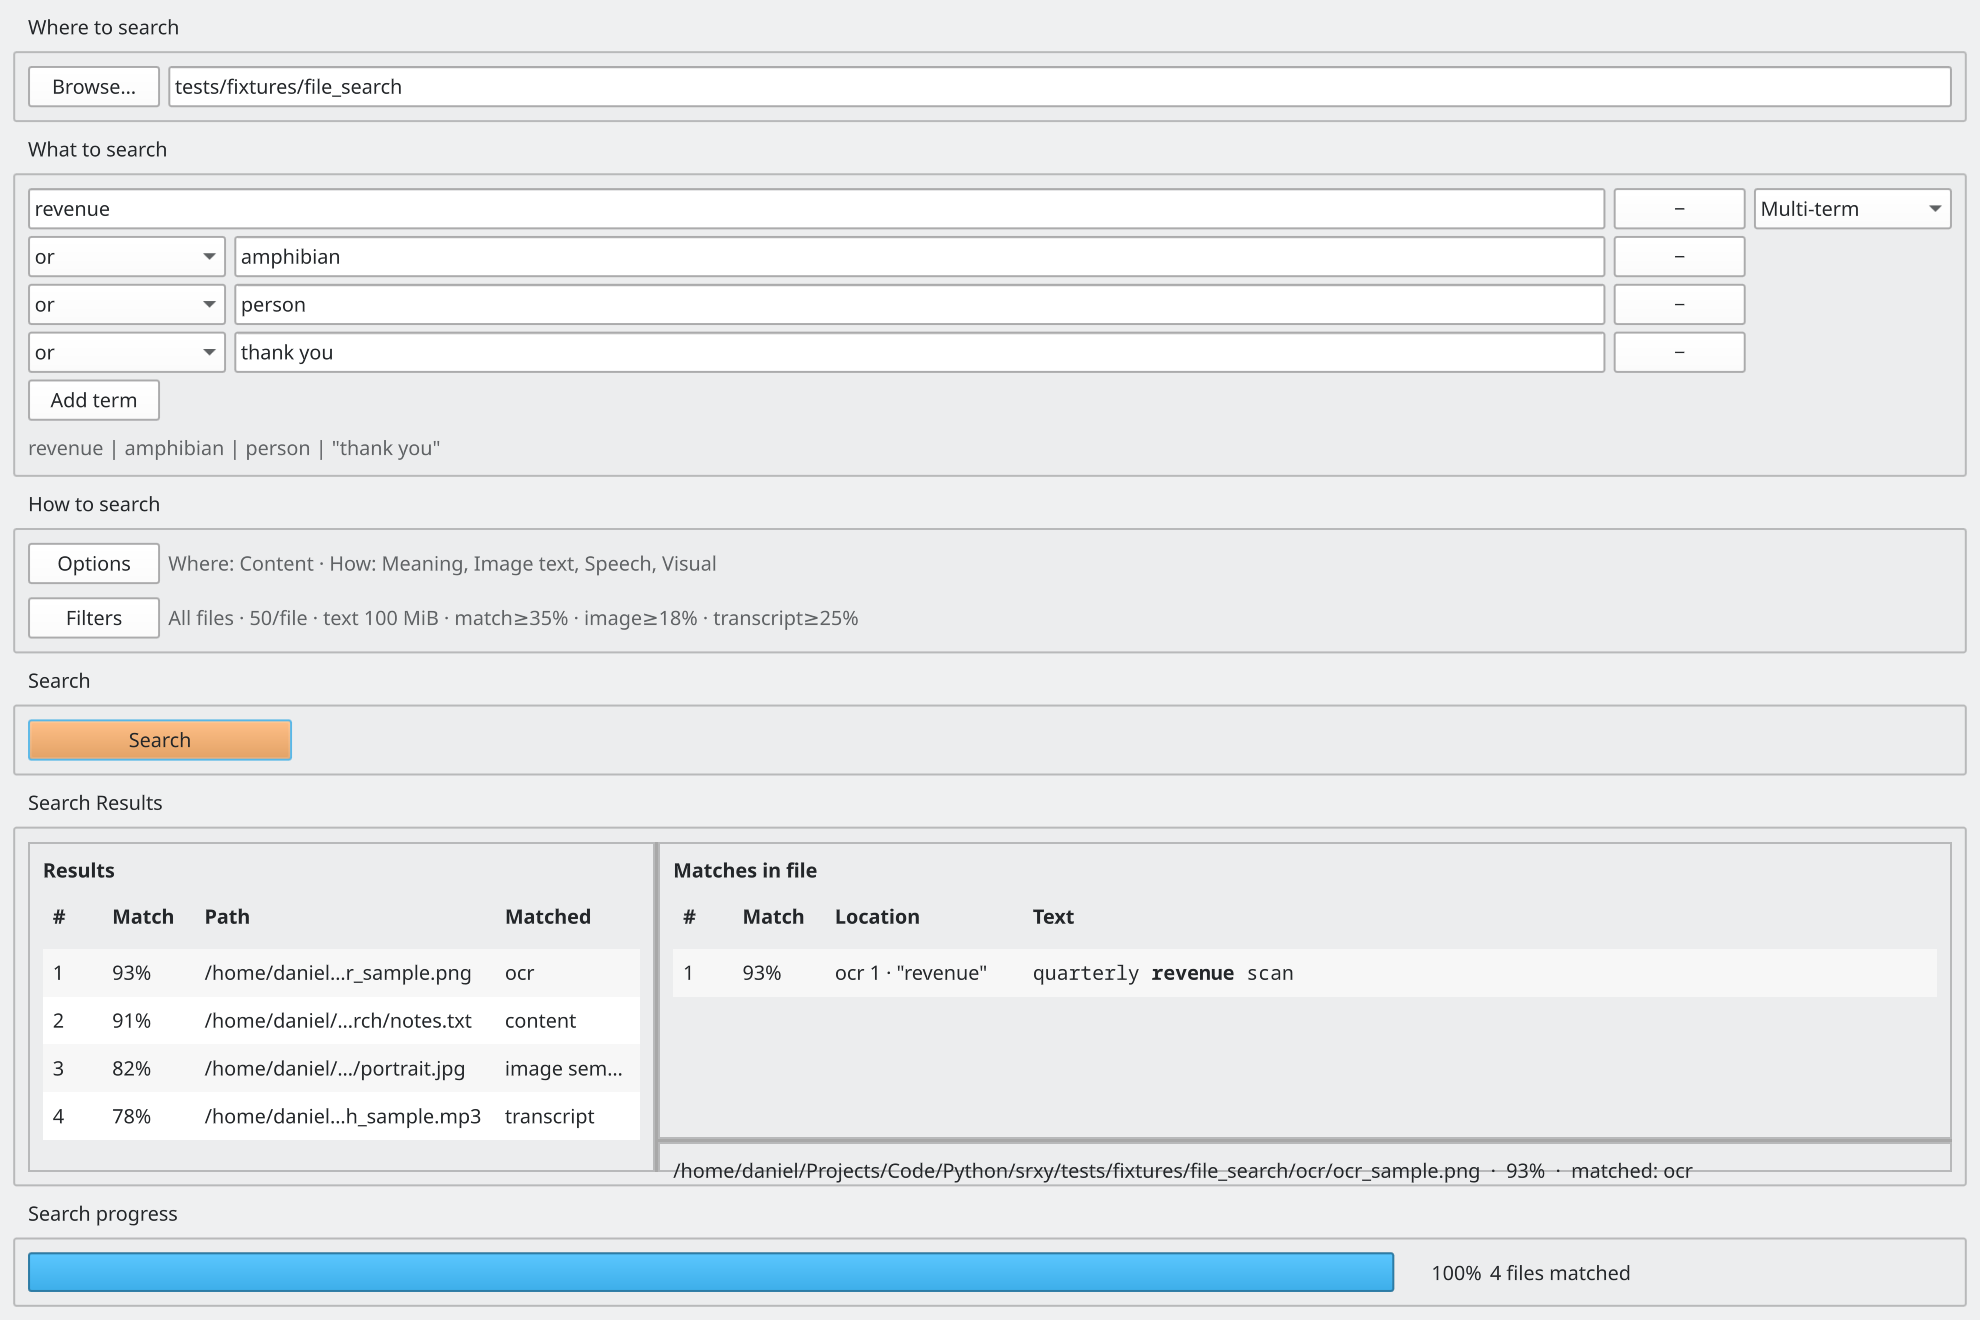
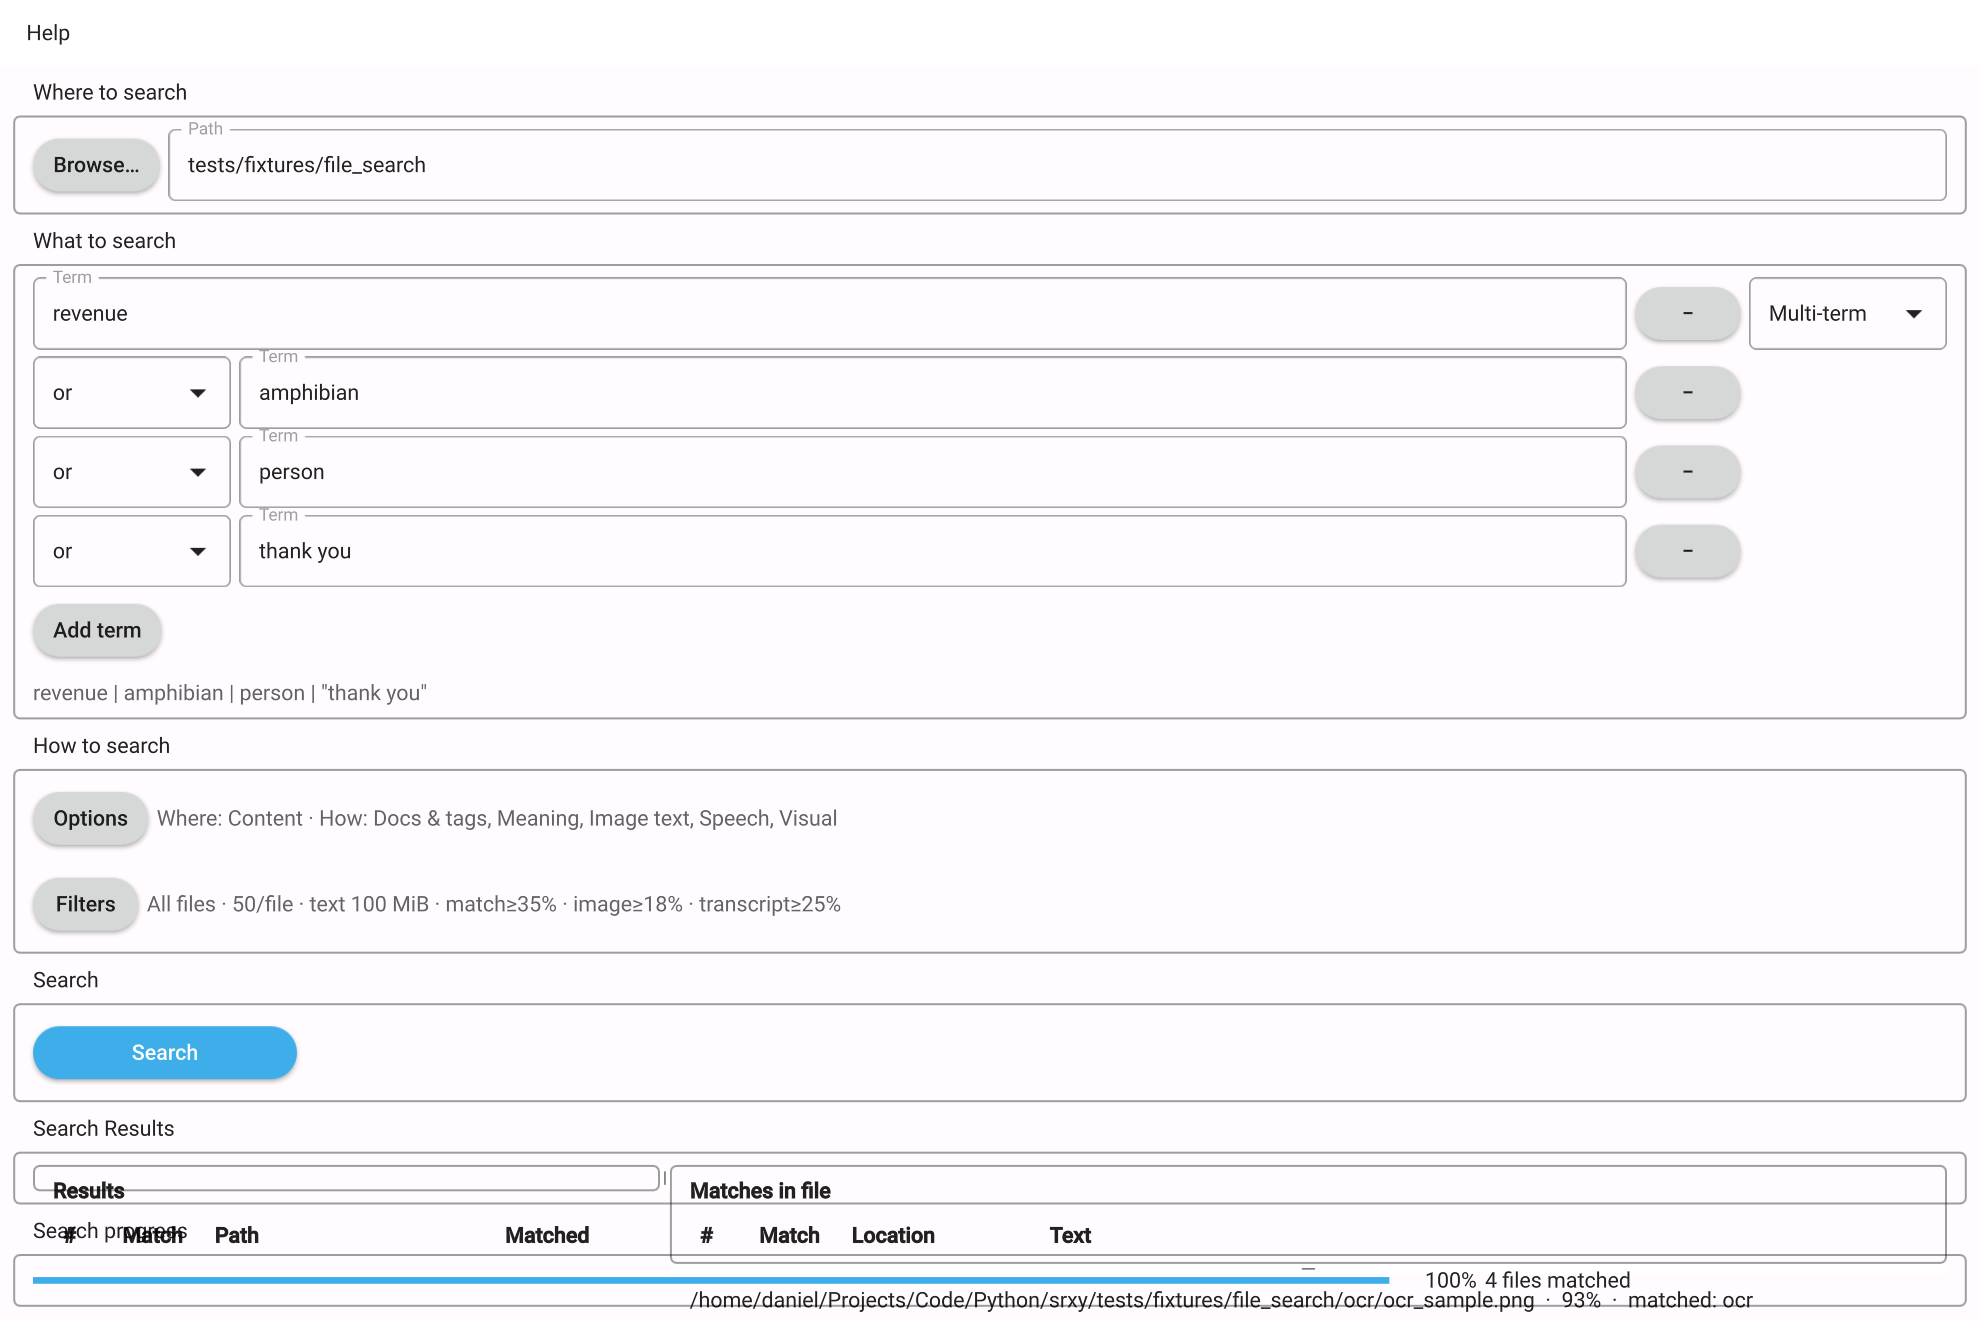
add linux material screenshot

Changed region(s): [[0.0, 0.0, 1.0, 0.9939], [0.9859, 0.7144, 1.0, 0.7455]]

diff --git a/README.md b/README.md
@@ -29,25 +29,9 @@ srxy "registry" ./src         # pre-filled; auto-starts
 
 Walkthrough: [docs/gui.md](docs/gui.md). Architecture: [docs/architecture.md](docs/architecture.md).
 
-**Desktop installers (Linux + macOS):**
+**Desktop installers (Linux, macOS, Windows):**
 
-Two Linux AppImages from [GitHub Releases](https://github.com/illescasDaniel/srxy/releases/latest) (decompress the `.xz`, make executable, and run; no host `libfuse2`):
-
-| Artifact | What you get |
-|----------|----------------|
-| `srxy-*-installer-*.AppImage.xz` | **Offline wizard** — full PySide UI; install / update / reinstall / uninstall |
-| `srxy-*-installer-online-*.AppImage.xz` | **Online one-click** — slim Go bootstrap; opens your browser to a localhost page and installs from PyPI |
-
-Default prefix: `~/Applications/srxy`. The online AppImage needs a network connection on first launch (downloads `uv`, managed Python, and srxy into `~/.cache/srxy/online-bootstrap/`); later runs reuse the cache. It vendors PATH / tesseract / ffmpeg automatically and enables smarter-search packages only when a GPU is detected — model weights download later when you use those features. No reinstall/uninstall UI on the online path (use the offline wizard or remove the prefix).
-
-Two macOS `.dmg` installers from the same [GitHub Releases](https://github.com/illescasDaniel/srxy/releases/latest) page (open the DMG and double-click the app; default prefix `~/Applications/srxy`):
-
-| Artifact | What you get |
-|----------|----------------|
-| `srxy-*-installer-*.dmg` | **Offline wizard** — full PySide UI; install / update / reinstall / uninstall |
-| `srxy-*-installer-online-*.dmg` | **Online one-click** — slim Go bootstrap; localhost browser UI; installs from PyPI |
-
-These macOS DMGs are currently **unsigned** (Gatekeeper may warn or block on first open); a signed and notarized release is coming soon. A Windows offline installer (`.exe`, Inno Setup) is also available from the same releases page (unsigned; SmartScreen may warn). PyPI / `uv tool install` remain the primary paths on every platform. Guide: [docs/installers.md](docs/installers.md). Privacy / third-party notice: [docs/privacy.md](docs/privacy.md).
+Grab the latest installers from [GitHub Releases](https://github.com/illescasDaniel/srxy/releases/latest) — AppImages, DMGs, and the Windows `.exe` are all there. You can also [buy the installers](https://www.daniel-ir.eu/shop/p/srxy) from the official site (includes a **signed** macOS build). Details: [docs/installers.md](docs/installers.md).
 
 <img src="docs/images/installer.png" alt="srxy offline desktop installer" width="400" />
 
@@ -93,7 +77,7 @@ API reference: [docs/python-api.md](docs/python-api.md) · [docs/api-reference.m
 | Guide | Contents |
 |-------|----------|
 | [Installation](docs/installation.md) | uv tool / pipx, macOS/Linux/Windows, ffmpeg, tesseract |
-| [Desktop installers](docs/installers.md) | Linux AppImages + macOS DMGs (offline + online) |
+| [Desktop installers](docs/installers.md) | Linux / macOS / Windows installers (free Releases + shop) |
 | [TUI](docs/tui.md) | Layout, keybindings, clipboard, release checklist |
 | [CLI reference](docs/cli.md) | Flags, formats, boolean queries, exit codes |
 | [Power-ups](docs/power-ups.md) | OCR, semantic, CLIP, transcription, models |

diff --git a/docs/installers.md b/docs/installers.md
@@ -2,7 +2,7 @@
 
 Optional desktop installers for people who prefer a wizard over `uv tool install` / PyPI. Linux AppImages, macOS installer wrappers, and a Windows offline Inno Setup installer are available.
 
-PyPI / `uv tool install` remain the primary install paths on every platform. Privacy / third-party downloads: [privacy.md](privacy.md).
+Download free builds from [GitHub Releases](https://github.com/illescasDaniel/srxy/releases/latest), or [buy the installers](https://www.daniel-ir.eu/shop/p/srxy) from the official site (includes a **signed** macOS build). PyPI / `uv tool install` remain the primary install paths on every platform. Privacy / third-party downloads: [privacy.md](privacy.md).
 
 ## Linux (supported)
 
@@ -47,7 +47,7 @@ Two macOS DMG installers (same naming shape as Linux AppImages):
 2. Open the DMG and double-click the installer (the volume background reminds you).
 3. Both installers target `~/Applications/srxy` by default.
 
-These DMGs are currently **unsigned** (Gatekeeper may warn or block on first open). A signed and notarized release is coming soon.
+GitHub Release DMGs are currently **unsigned** (Gatekeeper may warn or block on first open). A **signed** macOS installer is available from the [official shop](https://www.daniel-ir.eu/shop/p/srxy).
 
 Notes:
 
